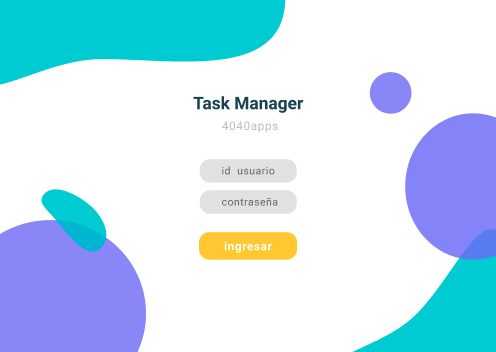
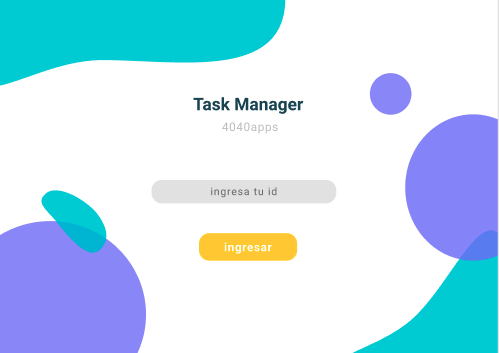
[Readme] add image new prototype

diff --git a/README.md b/README.md
@@ -165,6 +165,10 @@ En este proyecto utilizamos:
 
 ![alt text](https://github.com/TeresaC21/TalentApp/blob/develop/img/grafica.png)
 
+\*\* Widget
+
+![alt text]()
+
 ## Despliegue 📦
 
 Para el deploy utilizamos...
